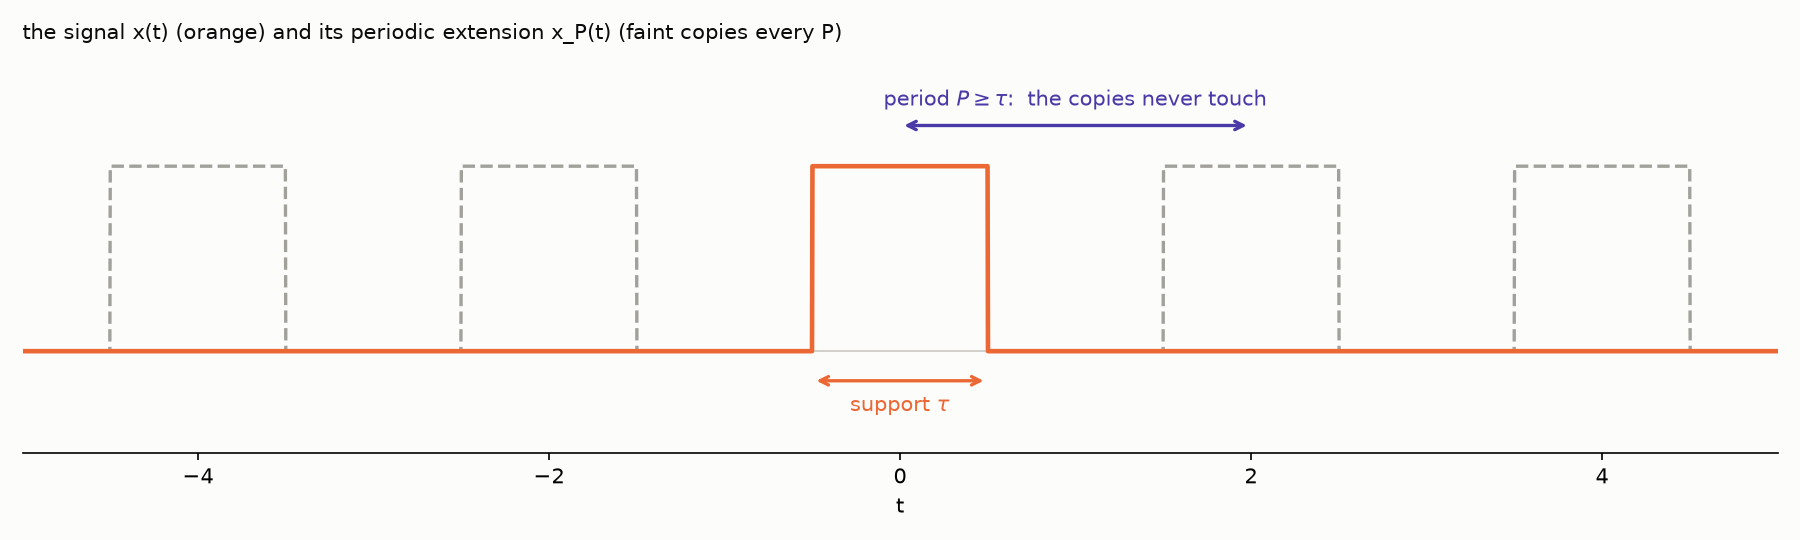
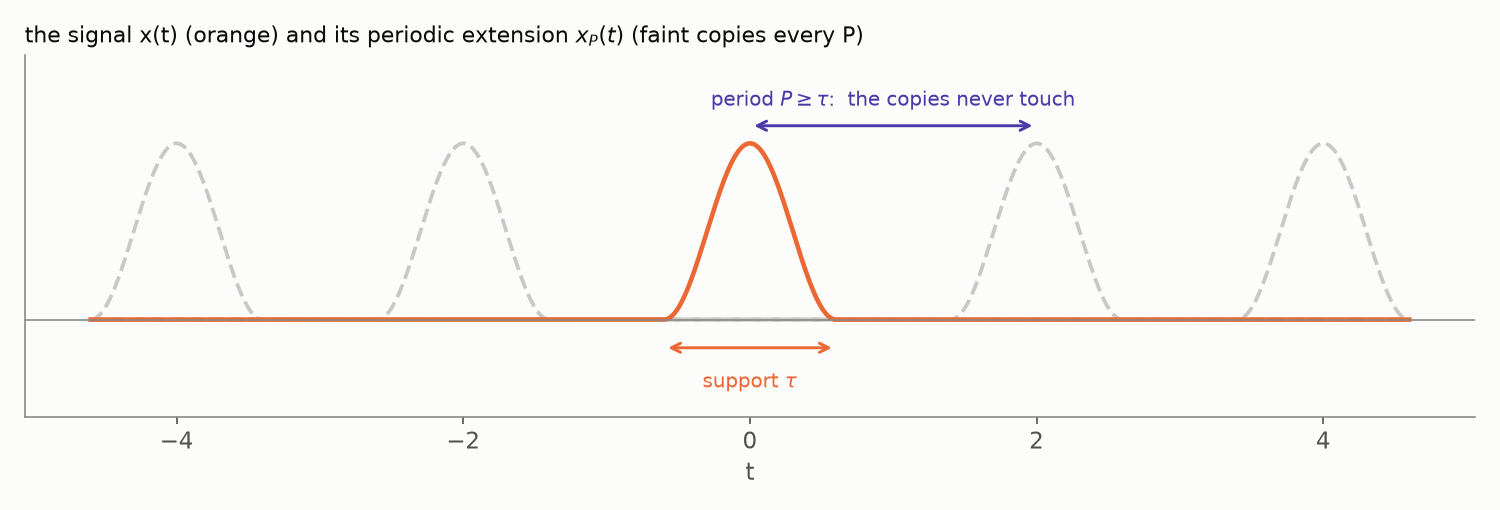
Four Shades: generic hump restored; rectangle + sinc computation moved before the envelope figure
- periodize_gap.png back to the arbitrary compact signal (the general
  story stays general)
- new rect_pulse.png introduces the concrete rectangle at the point of
  specialization, BEFORE envelope.png, so the densifying stems are
  visibly landing on the just-computed sinc; captions updated, the
  look-back sentence dissolved into the flow

Three Names: sinc-train row 2 color-cycles the sincs; the zero-crossing
arrow no longer crosses the orange curve

diff --git a/content/posts/four-shades-of-fourier/index.md b/content/posts/four-shades-of-fourier/index.md
@@ -174,18 +174,18 @@ $$
 
 Read it as a picture: the Fourier coefficients of the periodized signal are
 *samples of one continuous curve* — the transform $\frac{1}{P} X(f)$ is the
-**envelope** of the discrete spectrum. Make the period longer, and the
-samples pack tighter along the same envelope, until they fuse into it:
+**envelope** of the discrete spectrum.
 
-![Fourier coefficients densify onto the transform as the period grows](envelope.png)
+Let us compute one such envelope concretely, so the pictures below can
+show it. The story so far worked for *any* signal of finite support —
+but the pictures of bridge one had already committed to a specific one,
+the rectangular pulse, and for it the transform can be computed end to
+end. Here is that pulse again, with the periodic extension we just
+built:
 
-(The stems in the picture are drawn as $P \cdot c_n$ — the raw coefficients
-themselves shrink like $\frac{1}{P}$ and would sink into the axis; the
-*shape* is what survives, and the shape is $X(f)$.)
+![The rectangular pulse of bridge one, height 1 on [−1/2, 1/2], and its periodic extension](rect_pulse.png)
 
-And what *is* that envelope, for the rectangular pulse of the pictures?
-For once, a transform we can compute end to end — the pulse has height $1$
-on $\left[ -\frac{1}{2}, \frac{1}{2} \right]$, so:
+The pulse has height $1$ on $\left[ -\frac{1}{2}, \frac{1}{2} \right]$, so:
 
 $$
 \begin{aligned}
@@ -198,12 +198,21 @@ $$
 
 the last step being Euler's formula run backwards,
 $\sin z = \frac{1}{2i} \left( e^{iz} - e^{-iz} \right)$. This damped
-ripple is the [**sinc** function](https://en.wikipedia.org/wiki/Sinc_function).
-Look back at the envelope figure: the tips of the stems lie exactly on
-this curve — sinc *is* the envelope the coefficients were densifying
-onto. And it is the promised troublemaker of bridge one: its tails die
+ripple is the [**sinc** function](https://en.wikipedia.org/wiki/Sinc_function)
+— and it is the promised troublemaker of bridge one: its tails die
 like $\frac{1}{f}$, too slowly for absolute integrability, which is
 exactly why the inversion integral keeps its principal-value clause.
+
+Now make the period longer, and the samples pack tighter along the same
+envelope — for our pulse, along the sinc just computed — until they
+fuse into it:
+
+![Fourier coefficients densify onto the transform as the period grows](envelope.png)
+
+(The stems in the picture are drawn as $P \cdot c_n$ — the raw
+coefficients themselves shrink like $\frac{1}{P}$ and would sink into
+the axis; the *shape* is what survives, and the shape is exactly the
+sinc.)
 
 This bridge also plants the law that will organize everything below.
 Periodizing the signal made its spectrum discrete — samples on the grid
